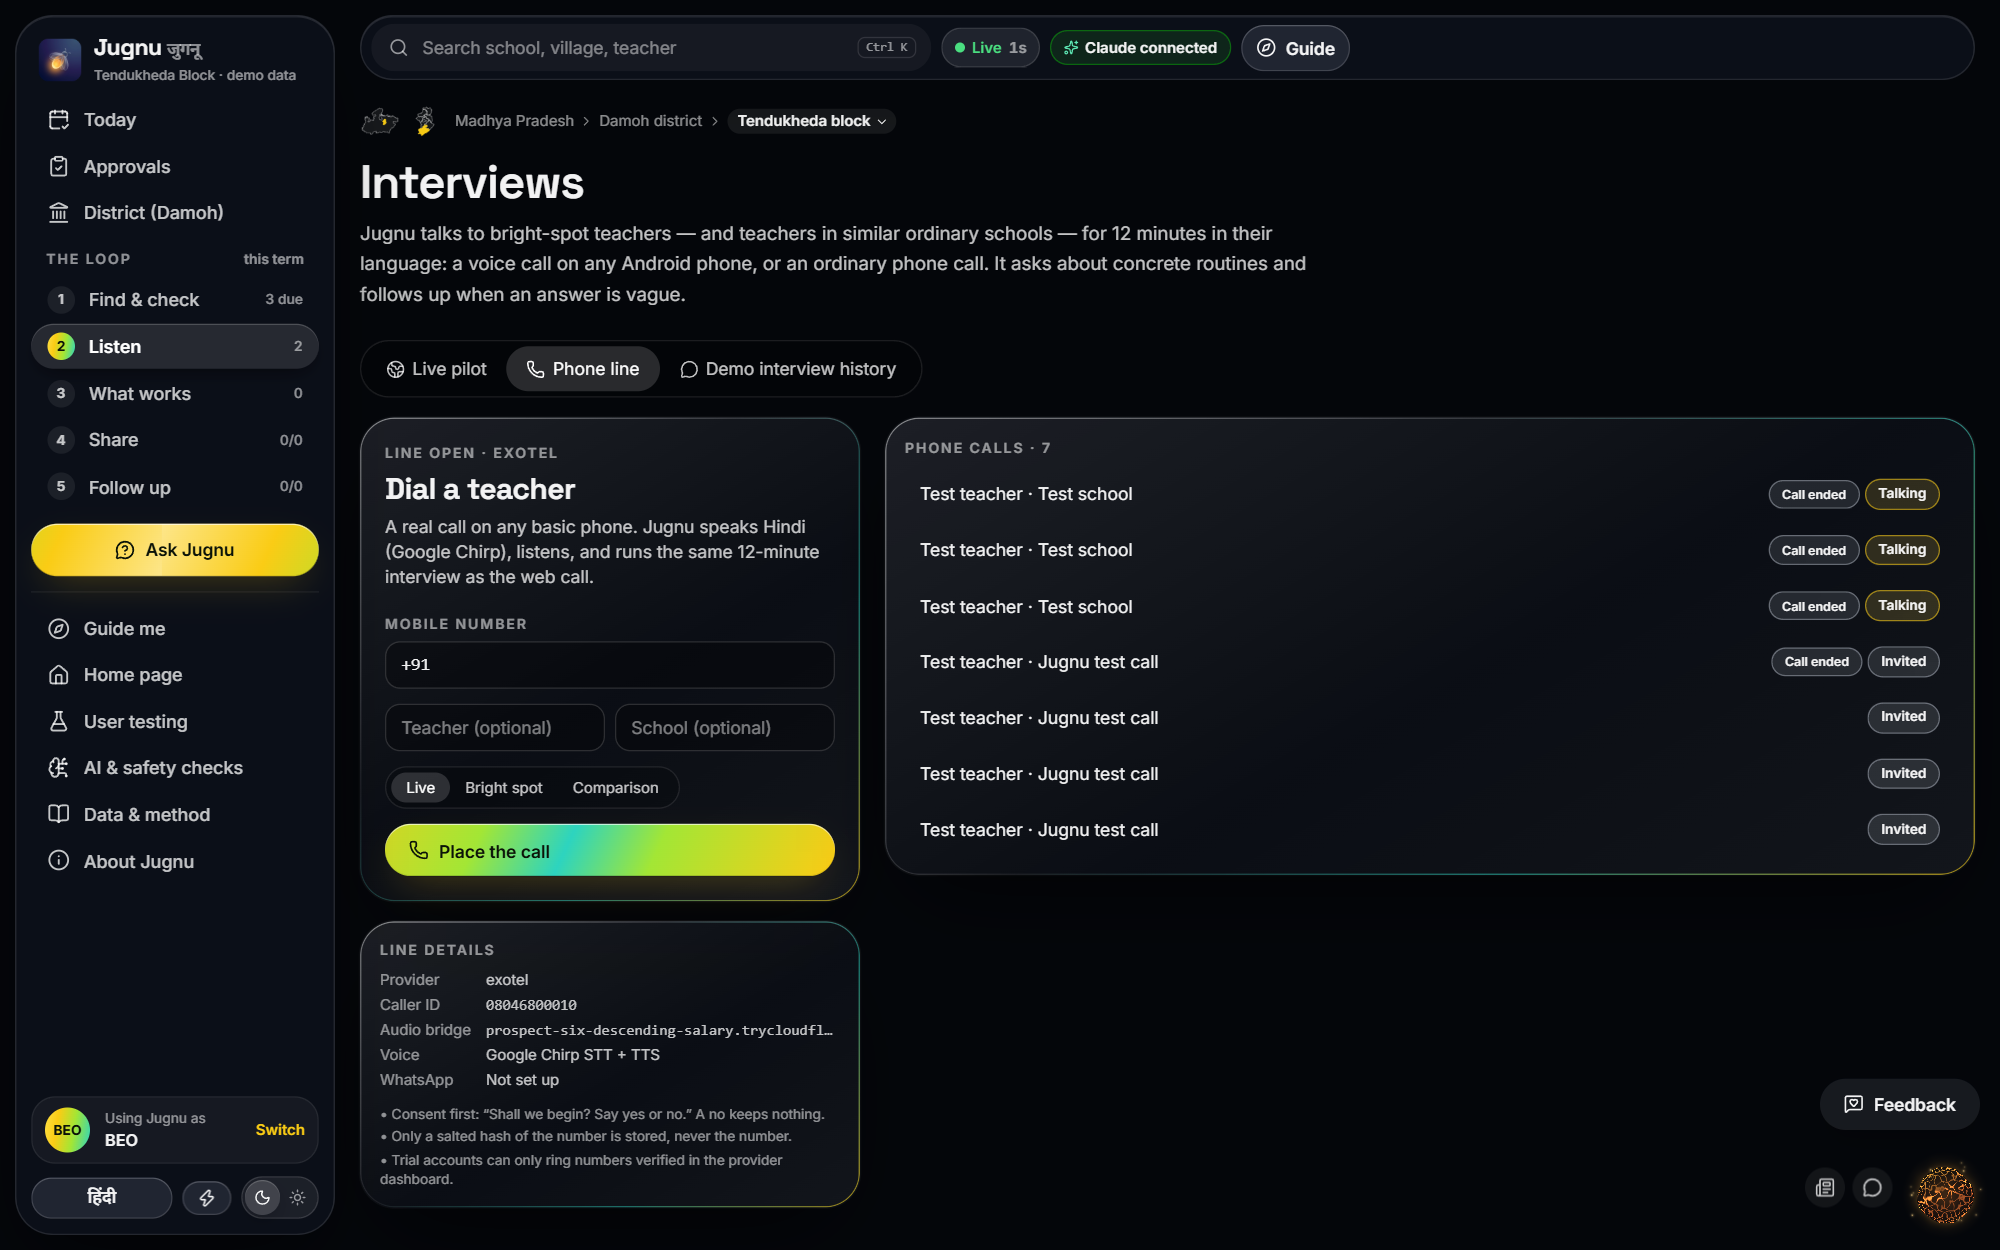
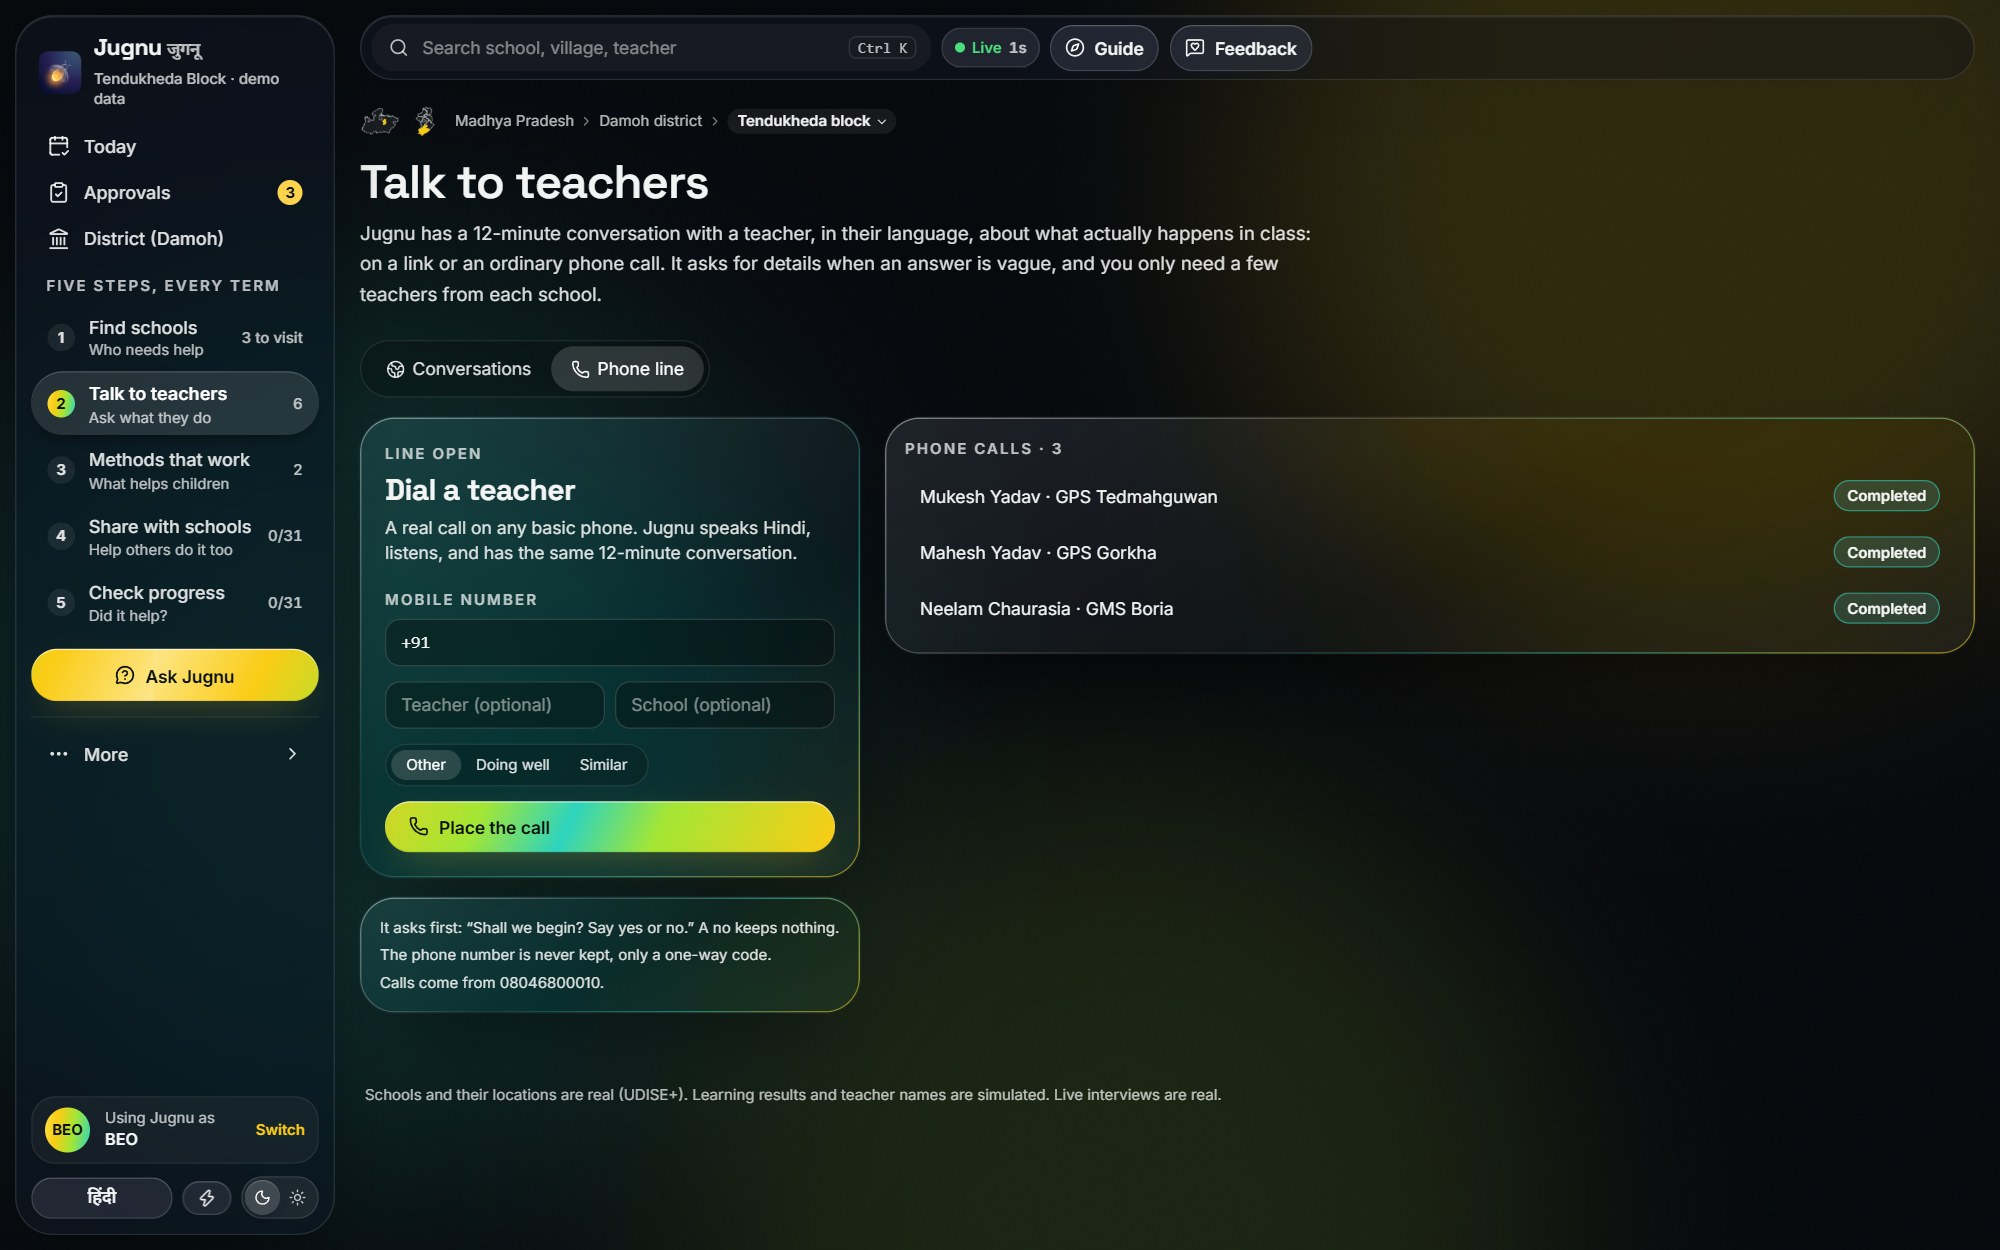
Outro: current screens and page names, third shot shows the real plan

diff --git a/video/outro.js b/video/outro.js
@@ -3,12 +3,12 @@ import { W, H, C, FONT, lerp, prog, ease, window_, rng, loadFonts, loadImage, lo
 
 const Q = await (await fetch(new URL("./assets/outro-cues.json", import.meta.url))).json();
 
-// crop = source rectangle in the 2000×1250 screenshots (the phone crop stops above the line details).
+// crop = source rectangle in the 2000×1250 screenshots, past the menu (the phone crop stops above the line details).
 const PANELS = [
-  { img: "phone", crop: [300, 25, 1379, 862], tag: "LISTEN", a: "Calls any phone.", b: "Speaks Hindi.", hi: "किसी भी फ़ोन पर, हिंदी में।" },
-  { img: "practices", crop: [300, 60, 1640, 1025], tag: "WHAT WORKS", a: "Hears what", b: "actually works.", hi: "जो सच में काम करता है, वो सुनता है।" },
-  { img: "schools", crop: [300, 60, 1640, 1025], tag: "SHARE", a: "Tells each officer", b: "what to do next.", hi: "हर अधिकारी को अगला कदम।" },
-  { img: "today", crop: [300, 60, 1640, 1025], tag: "FOLLOW UP", a: "Calls back", b: "on day 14.", hi: "14वें दिन फिर फ़ोन।" },
+  { img: "phone", crop: [345, 90, 1280, 800], tag: "TALK TO TEACHERS", a: "Calls any phone.", b: "Speaks Hindi.", hi: "किसी भी फ़ोन पर, हिंदी में।" },
+  { img: "practices", crop: [345, 90, 1640, 1025], tag: "METHODS THAT WORK", a: "Hears what", b: "actually works.", hi: "जो सच में काम करता है, वो सुनता है।" },
+  { img: "plan", crop: [345, 90, 1640, 1025], tag: "SHARE WITH SCHOOLS", a: "Tells each officer", b: "what to do next.", hi: "हर अधिकारी को अगला कदम।" },
+  { img: "results-sim", crop: [345, 90, 1640, 1025], tag: "CHECK PROGRESS", a: "Calls back", b: "on day 14.", hi: "14वें दिन फिर फ़ोन।" },
 ];
 
 let S;

diff --git a/docs/ACTION-PLAN.md b/docs/ACTION-PLAN.md
@@ -4,7 +4,7 @@ Work the owner has decided to hold. Nothing here starts until the owner asks.
 
 ## Update the outro's screens and labels
 
-**Status:** on hold (owner's decision, 30 Oct 2026). This changes the video only, not the app.
+**Status:** done on 1 Nov 2026, when the owner asked to finish the remaining work. Kept here as the steps to repeat if the screens change again.
 
 **Cost:** no AI and no credits. The screens are screenshots of our own app, and the music and voices stay as they are.
 
